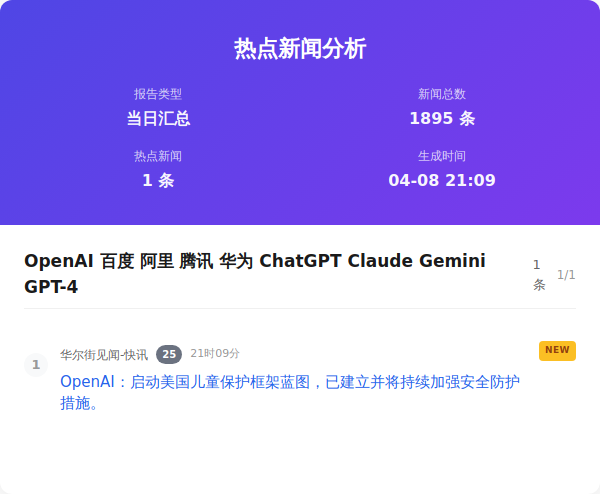
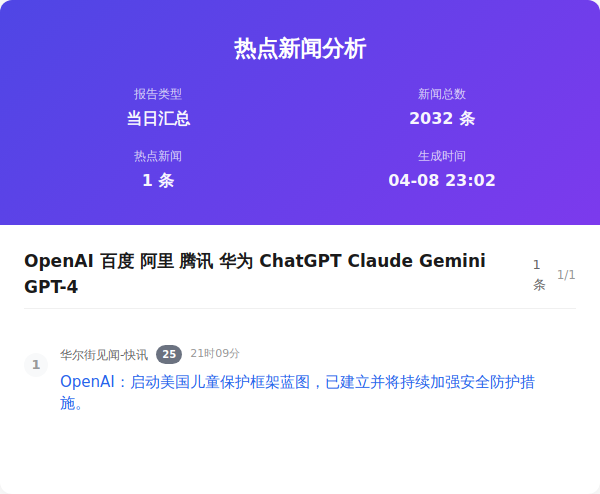
Auto update by GitHub Actions at Wed Apr  8 23:02:50 CST 2026

diff --git a/output/2026年04月08日/html/当日汇总.html b/output/2026年04月08日/html/当日汇总.html
@@ -357,7 +357,7 @@
                     </div>
                     <div class="info-item">
                         <span class="info-label">新闻总数</span>
-                        <span class="info-value">1895 条</span>
+                        <span class="info-value">2032 条</span>
                     </div>
                     <div class="info-item">
                         <span class="info-label">热点新闻</span>
@@ -365,7 +365,7 @@
                     </div>
                     <div class="info-item">
                         <span class="info-label">生成时间</span>
-                        <span class="info-value">04-08 21:09</span>
+                        <span class="info-value">04-08 23:02</span>
                     </div>
                 </div>
             </div>
@@ -379,7 +379,7 @@
                         </div>
                         <div class="word-index">1/1</div>
                     </div>
-                    <div class="news-item new">
+                    <div class="news-item ">
                         <div class="news-number">1</div>
                         <div class="news-content">
                             <div class="news-header">